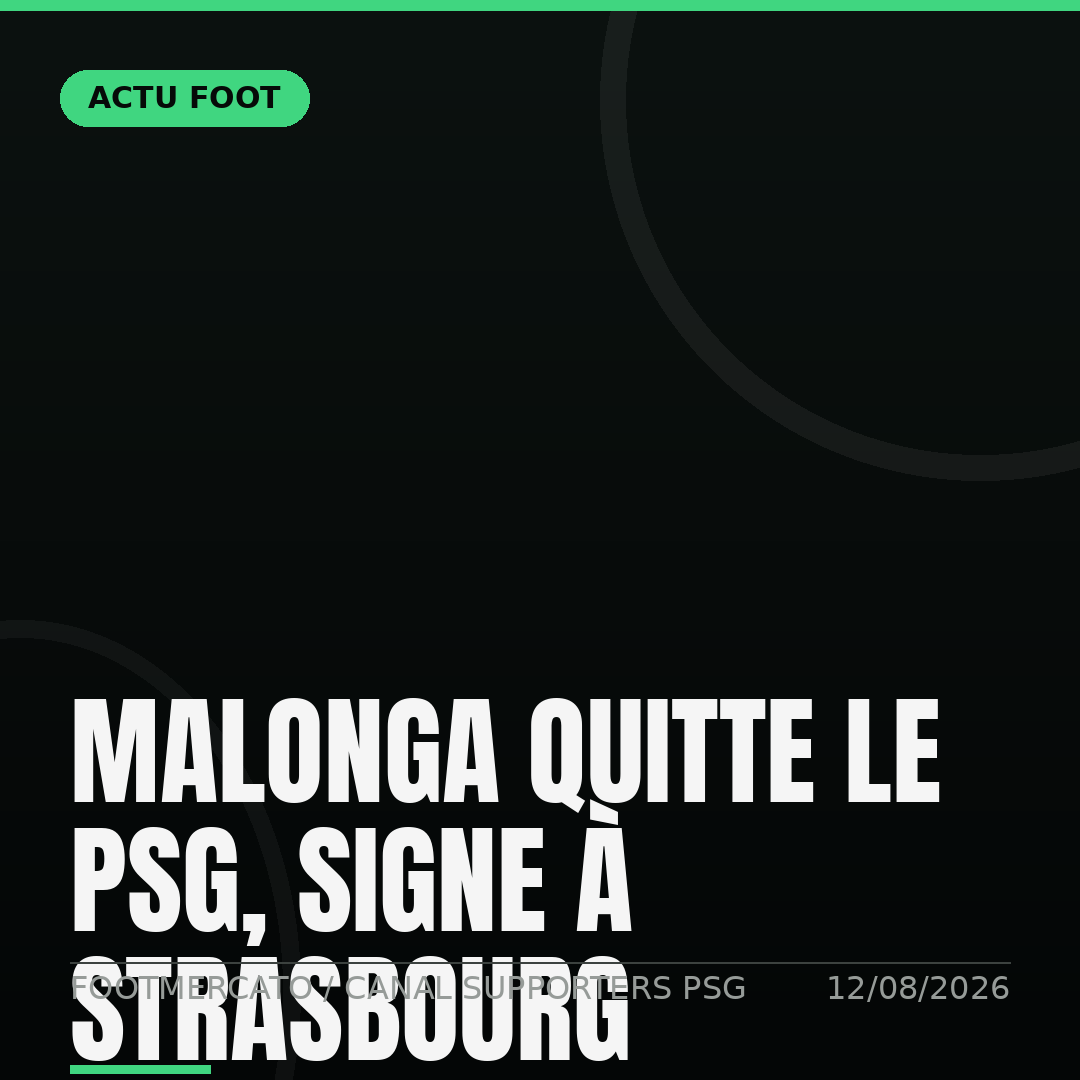
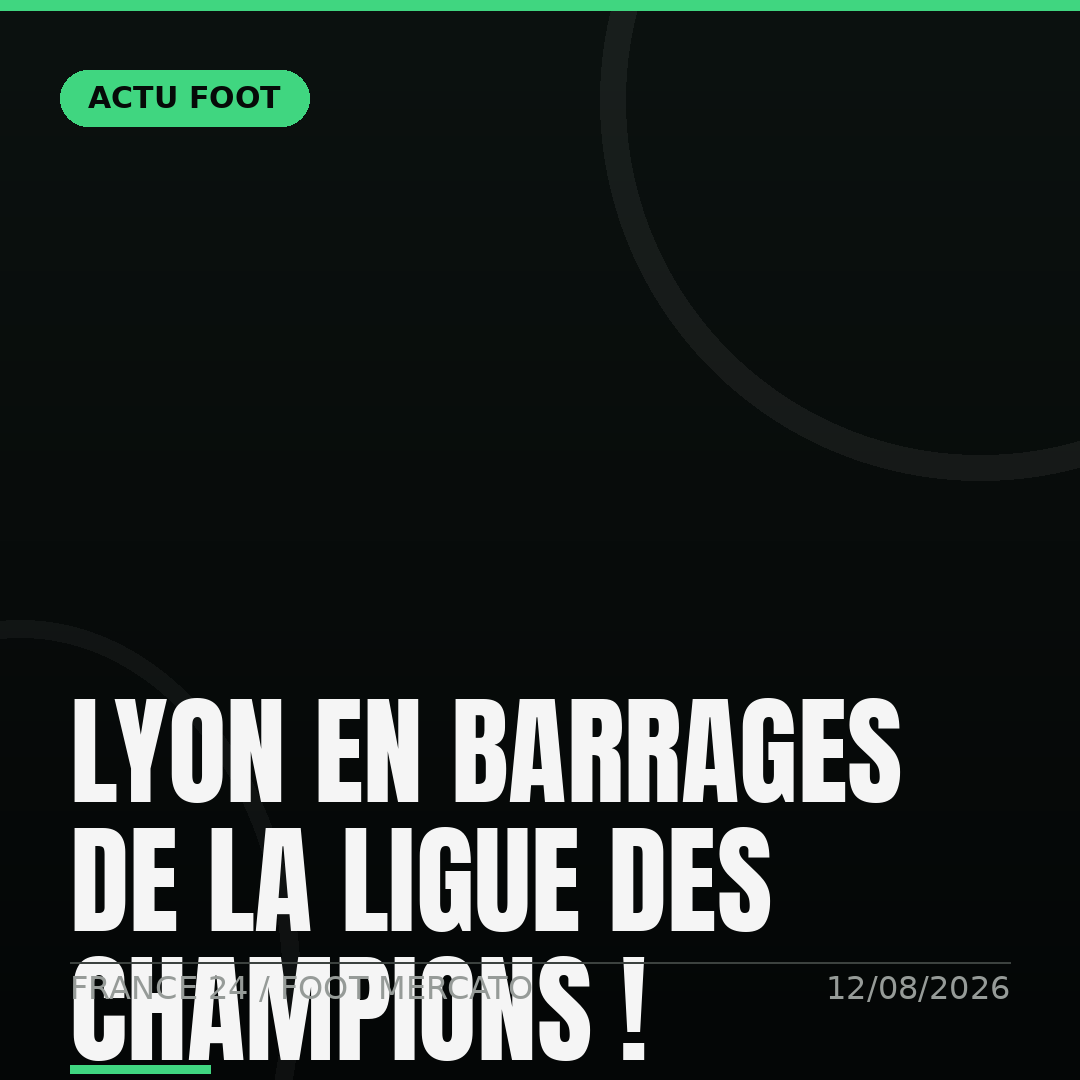
Post foot pret

Changed region(s): [[0.0611, 0.6417, 0.8861, 1.0]]

diff --git a/posts_log.md b/posts_log.md
@@ -120,3 +120,14 @@ C'est officiel : Hermann Malonga, défenseur central de 18 ans formé au PSG, s'
 #Malonga #RCStrasbourg #PSG #MercatoFoot #Ligue1
 
 Source : Footmercato / Canal Supporters PSG
+
+
+## 2026-08-12 12:34 UTC
+
+🔴🔵 L'OL EST DE RETOUR EN EUROPE ! 
+
+Renversant ! Battu 2-1 à Prague à l'aller, l'Olympique Lyonnais a réalisé une remontée parfaite hier soir au Groupama Stadium. Avec un Sparta Prague réduit à 10 dès la 34e minute, les Gones se sont imposés 3-0 et décrochent leur billet pour les barrages de la Ligue des Champions. Nuamah, de retour de blessure, a ouvert le score, avant que les hommes de Paulo Fonseca ne scellent la qualification. Prochaine étape : Fenerbahçe, avec l'aller à Istanbul le 18 août. La C1 n'est plus qu'à 90 minutes... ⚡
+
+#OL #Lyon #LigueDesChampions #UCL #Fonseca
+
+Source : France 24 / Foot Mercato
